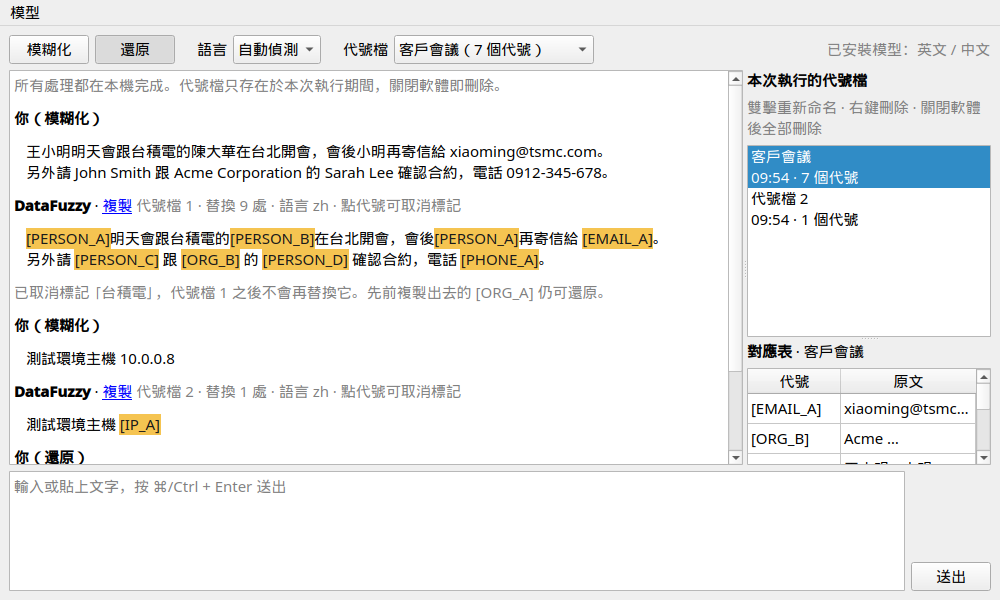
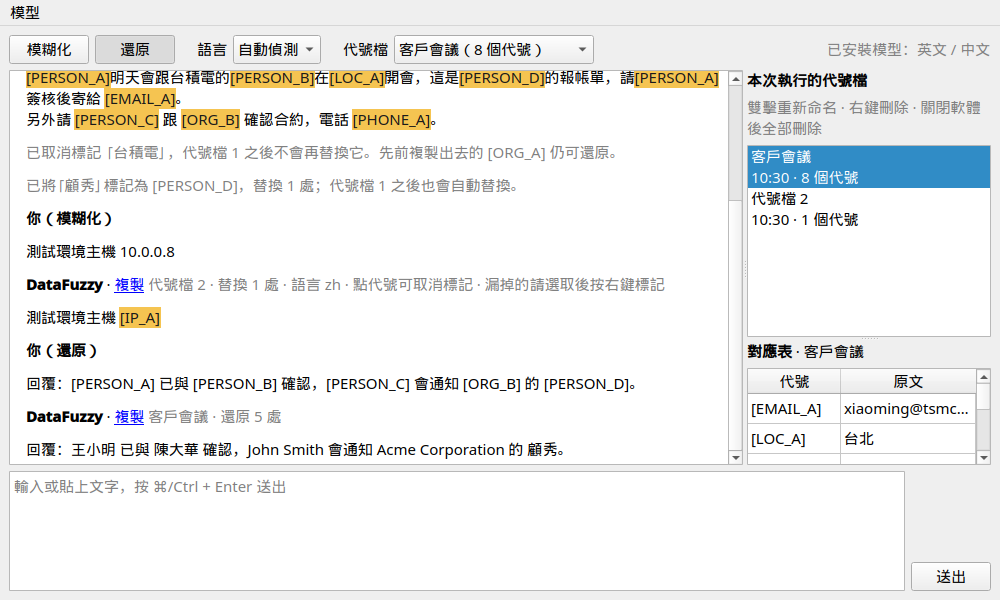
docs: document manual marking

diff --git a/README.md b/README.md
@@ -2,7 +2,7 @@
 
 [![CI](https://github.com/AquilaWei/DataFuzzy/actions/workflows/ci.yml/badge.svg)](https://github.com/AquilaWei/DataFuzzy/actions/workflows/ci.yml)
 [![codecov](https://codecov.io/gh/AquilaWei/DataFuzzy/graph/badge.svg)](https://codecov.io/gh/AquilaWei/DataFuzzy)
-![Version](https://img.shields.io/badge/version-0.4.1-blue)
+![Version](https://img.shields.io/badge/version-0.5.0-blue)
 ![Python](https://img.shields.io/badge/python-3.12%20%7C%203.13-blue)
 ![Platform](https://img.shields.io/badge/platform-macOS%20%7C%20Linux-lightgrey)
 [![License: GPL v3](https://img.shields.io/badge/license-GPL--3.0-green)](LICENSE)
@@ -17,6 +17,7 @@
 - 🏷 **可還原的代號** — `alice@acme.com` → `[EMAIL_A]`；同一個值永遠是同一個代號
 - 🔁 **跨文本還原** — 貼回任何含代號的新文字，自動選出對應的代號檔並換回原文
 - 🗂 **代號檔管理** — 命名、預覽對應表、刪除；誤判的代號點一下就能取消標記
+- ✍ **手動補標記** — 模型漏掉的名字，選取後按右鍵就能標記，所有回覆與之後的輸入都會替換
 - 🧹 **關閉即刪除** — 代號檔加密暫存，軟體關閉（或被中止）時全部刪除
 - 🧠 **名稱辨識** — 本機 NER 模型辨識人名、組織、地點；同一名稱在全文與後續輸入都換成同一代號
 - 🎯 **人名優先** — 人名採較寬的門檻，中文逐句再檢查一次；聊天紀錄（`張明：好的`、LINE 匯出）的說話者也會一併代號化。測試集人名召回率約 98%（中文）/ 100%（英文）
@@ -72,7 +73,10 @@ uv run datafuzzy
    ```
 3. 點回覆旁的 **複製** 即可取用結果。
 4. **誤判**：點回覆中的代號 →「取消標記」，原文會放回所有回覆，這個代號檔之後也不再替換它；先前已複製出去的代號仍可還原
-5. **管理代號檔**：右側清單 **雙擊** 重新命名、**右鍵** 刪除，下方預覽「代號 ↔ 原文」對應表
+5. **漏掉**：在回覆中 **選取** 漏掉的文字 → **右鍵** →「標記為敏感資料」→ 人名 / 組織 / 地點 / 其他。這個代號檔的所有回覆立即替換，之後的輸入也會自動替換；標記人名時，單獨出現的名（`美玲`）也一併替換
+
+   ![mark](docs/assets/mark-menu.png)
+6. **管理代號檔**：右側清單 **雙擊** 重新命名、**右鍵** 刪除，下方預覽「代號 ↔ 原文」對應表
 
 ![screenshot](docs/assets/screenshot.png)
 
@@ -91,7 +95,7 @@ uv run datafuzzy
 - 單獨出現的名或姓會沿用全名的代號（`John Smith`、`John` → `[PERSON_A]`；`王小明`、`小明` → `[PERSON_A]`），還原時一律還原成全名；一個名字一旦在代號檔中連到某人，之後出現同名的另一人也不會改變
 - 中文只連結「名」，單獨的姓（`王先生`）不連結；中文模型以繁體中文訓練，簡體中文效果可能較差
 - 產品名稱偶爾會被當成人名或組織而替換（寧可多遮，不要漏遮），可點代號取消標記
-- 人名仍可能漏掉（約 1–2%，多為少見的兩字名），送出前請快速看一下；長句中的地名偶爾會漏掉；目前還不能手動補標記
+- 人名仍可能漏掉（約 1–2%，多為少見的兩字名）、長句中的地名偶爾會漏掉：送出前請快速看一下，漏掉的選取後按右鍵補標記
 
 ## 🏗 架構
 
@@ -107,6 +111,7 @@ flowchart LR
     F --> G[模糊化文字]
     F <--> H[(加密代號檔<br/>關閉即刪)]
     L[點代號取消標記] -.-> F
+    M[選取文字補標記] -.-> F
     I[含代號文字] --> R[自動推薦代號檔]
     R --> F
     F --> J[還原文字]
@@ -130,7 +135,8 @@ src/datafuzzy/
 - [x] 0.2 — 模型下載管理 + 英文 NER（`dslim/bert-base-NER`）
 - [x] 0.3 — 中文 NER（`ckiplab/bert-base-chinese-ner`）、中英混合文字
 - [x] 0.4 — 代號檔管理（命名、預覽、自動推薦）、誤判取消標記
-- [ ] 0.5 — Mac `.dmg` / Linux AppImage（不含模型，安裝後下載）
+- [x] 0.5 — 手動補標記漏掉的名字、人名召回率提升
+- [ ] 0.6 — Mac `.dmg` / Linux AppImage（不含模型，安裝後下載）
 
 ## 🤝 參與貢獻
 
